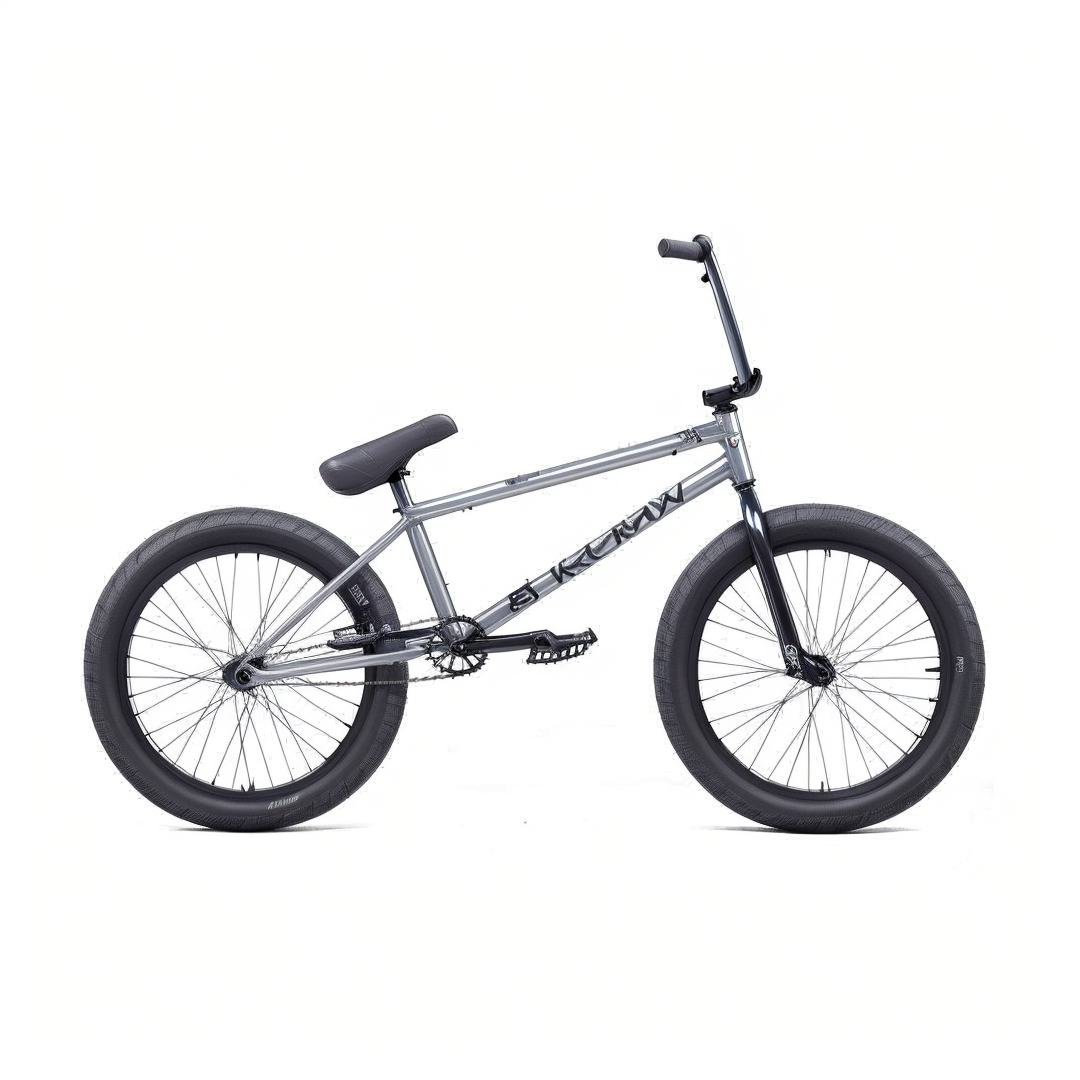
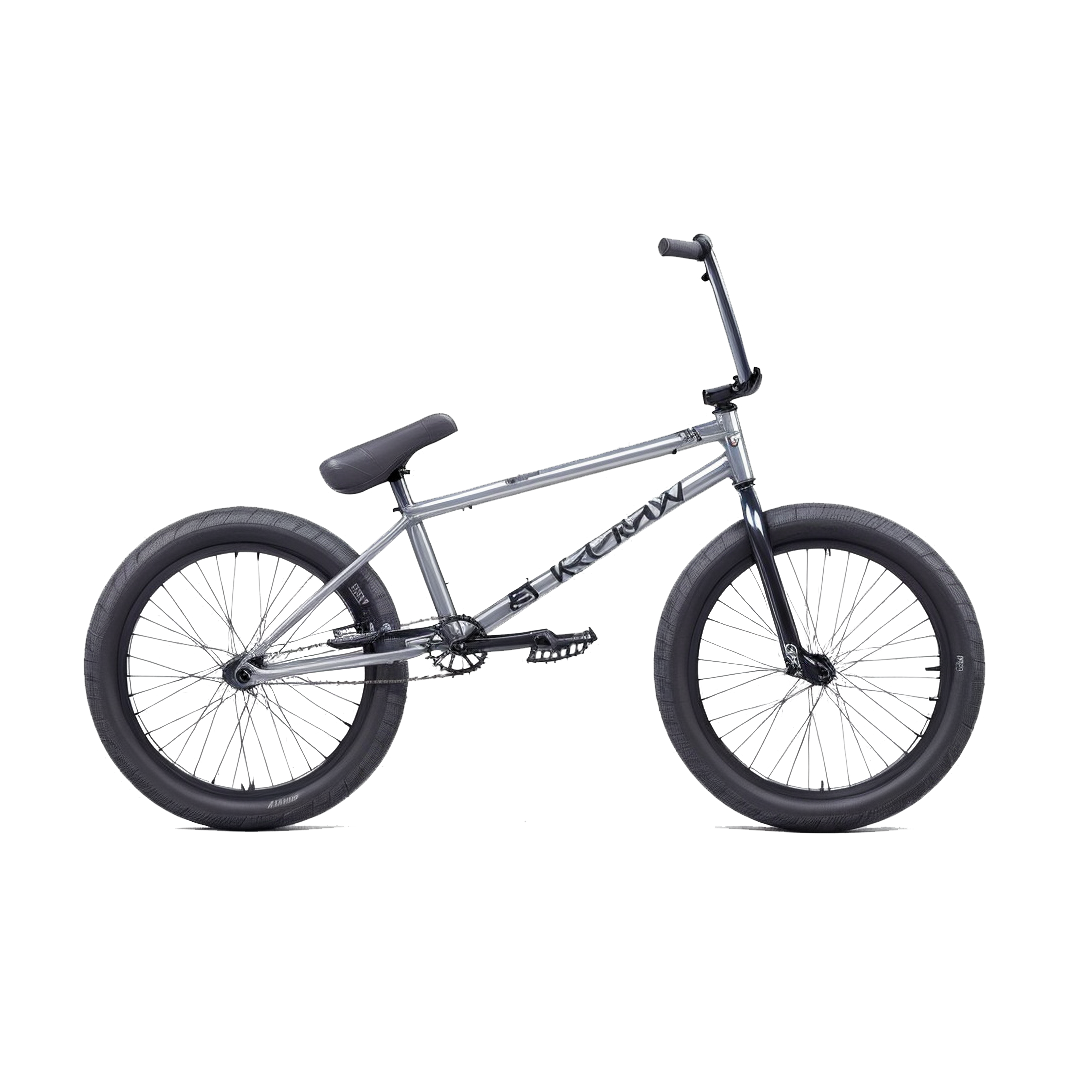
Added pagination. Fixed Product img transparency.

diff --git a/OnlineShop/wwwroot/css/Shop/ProductListingSection.css b/OnlineShop/wwwroot/css/Shop/ProductListingSection.css
@@ -1,15 +1,22 @@
+.product-main-container {
+    display: flex;
+    flex-direction: column;
+    flex-grow: 1;
+}
+
 .product-card-container {
     padding: 1em;
     display: flex;
     flex-flow: row wrap;
-    justify-content: space-evenly;
+    justify-content: center;
+    gap:20px;
 
     will-change: transform; 
     transition: 2000ms cubic-bezier(0.03, 0.98, 0.52, 0.99); 
     transform: perspective(1000px) rotateX(0deg) rotateY(0deg) scale3d(1, 1, 1);
   }
-  
-  .product-card {
+
+.product-card {
     padding: 1em;
     box-shadow: 0px 0px 46px -4px rgb(238, 238, 238);
     margin: 1em 1em 2em 1em;
@@ -19,10 +26,9 @@
     justify-content: space-between;
     display: flex;
     flex-flow: column nowrap;
-
-    will-change: transform; 
-    transition: 2000ms cubic-bezier(0.03, 0.98, 0.52, 0.99); 
-  }
+    will-change: transform;
+    transition: 2000ms cubic-bezier(0.03, 0.98, 0.52, 0.99);
+}
   
   .info {
     display: flex;
@@ -38,18 +44,21 @@
     background-color: rgb(246, 246, 246);
     border-radius: 0.8em;
   }
-  
-  .product-card-image img {
+.animated-product-item {
+    background-color: transparent;
+}
+
+.product-card-image img {
     height: 230px;
     bottom: -2em;
     width: 140%;
     object-fit: cover;
     margin-left: -3em;
-
-    will-change: transform; 
-    transition: 2000ms cubic-bezier(0.03, 0.98, 0.52, 0.99); 
+    background: none;
+    will-change: transform;
+    transition: 2000ms cubic-bezier(0.03, 0.98, 0.52, 0.99);
     transform: perspective(1000px) rotateX(0deg) rotateY(0deg) scale3d(1, 1, 1);
-  }
+}
   
   .product-card-details {
     background-color: #ffffff;

diff --git a/OnlineShop/wwwroot/css/Shop/Pagination.css b/OnlineShop/wwwroot/css/Shop/Pagination.css
@@ -1,0 +1,78 @@
+.pagination-wrapper {
+    display:flex;
+    justify-content:center;
+    text-align: center;
+    height: 50px;
+    margin-top: 40px;
+  }
+
+  .pagination {
+    display: inline-block;
+    list-style: none;
+    margin: 0;
+    padding: 0;
+    
+  }
+  .pagination li {
+    display: block;
+    float: left;
+    padding: 5px;
+  }
+
+  .pagination a{
+    background: none;
+    font-size: 16px;
+    display: block;
+    padding-left: 15px;
+    padding-right: 15px;
+    line-height: 32px;
+    
+    border-radius: 1em;
+    border: 1px solid rgb(196, 196, 196);
+  }
+  
+  .pagination a:hover {
+    background-color: black;
+    color: white;
+    border-color: black;
+  }
+  
+  .pagination a.active {
+    color: white;
+    background-color: var(--primary-color);
+    border: 1px solid  var(--primary-color);
+    border-radius: 1em;
+  }
+  .pagination a.active:hover {
+    background-color: black;
+    color: white;
+    border-color: black;
+  }
+  .pagination .extra-page-li {
+      display:none;
+  }
+
+  .pagination .prev,
+  .pagination .next,
+  .pagination .last,
+  .pagination .first {
+      padding-left: 9px;
+      padding-right: 9px;
+  }
+
+@media (min-width: 500px) {
+    .pagination .extra-page-li {
+        display: block;
+    }
+}
+
+@media (min-width: 768px) {
+    .pagination .prev,
+    .pagination .next,
+    .pagination .last,
+    .pagination .first {
+        padding-left: 15px;
+        padding-right: 15px;
+    }
+}
+    

diff --git a/OnlineShop/wwwroot/css/Shop/ProductListing.css b/OnlineShop/wwwroot/css/Shop/ProductListing.css
@@ -1,5 +1,5 @@
 .page-container {
-    min-height: 1000px;
+    min-height: 800px;
 }
 
 

diff --git a/OnlineShop.Application/ViewModels/Shop/Pager.cs b/OnlineShop.Application/ViewModels/Shop/Pager.cs
@@ -1,0 +1,47 @@
+namespace OnlineShop.Application.ViewModels.Shop
+{
+    public class Pager
+    {
+        public int TotalItems { get; set; }
+        public int CurrentPage { get; set; }
+        public int PageSize { get; set; }
+        public int TotalPages { get; set; }
+        public int StartPage { get; set; }
+        public int EndPage { get; set; }
+
+        public Pager()
+        {
+            
+        }
+
+        public Pager(int totalItems, int page, int pageSize = 8)
+        {
+            int totalPages = (int)Math.Ceiling((decimal)totalItems / (decimal)pageSize);
+            int currentPage = page;
+            int startPage = currentPage - 5;
+            int endPage = currentPage + 4;
+
+            if(startPage <= 0)
+            {
+                endPage = endPage - (startPage - 1);
+                startPage = 1;
+            }
+
+            if(endPage > totalPages)
+            {
+                endPage=totalPages;
+                if (endPage > 10)
+                {
+                    startPage = endPage - 9;
+                }
+            }
+
+            this.TotalItems = totalItems;
+            this.CurrentPage = currentPage;
+            this.PageSize = pageSize;
+            this.TotalPages = totalPages;
+            this.StartPage = startPage;
+            this.EndPage = endPage;
+        }
+    }
+}

diff --git a/OnlineShop/Controllers/ShopController.cs b/OnlineShop/Controllers/ShopController.cs
@@ -15,12 +15,20 @@
         }
 
         [HttpGet]
-        public async Task<IActionResult> Index()
+        public async Task<IActionResult> Index(int pg = 1)
         {
             IEnumerable<AllProductsViewModel> allProduct =
              await this.productService.GetAllProductsAsync();
 
-            return View(allProduct);
+            const int pageSize = 10; //1 for testing
+            if (pg < 1) pg = 1;
+            int prodCount = allProduct.Count();
+            var pager = new Pager(prodCount, pg, pageSize);
+            int prodSkip = (pg - 1) * pageSize;
+            var data = allProduct.Skip(prodSkip).Take(pager.PageSize).ToList();
+            ViewBag.Pager = pager;
+
+            return View(data);
         }
 
         //authorize as admin

diff --git a/OnlineShop.Application/Services/ProductService.cs b/OnlineShop.Application/Services/ProductService.cs
@@ -30,6 +30,7 @@
             return await this.productRepository
                .GetAllAttached()
                .To<AllProductsViewModel>()
+               .Where(p=>p.IsDeleted == false)
                .ToArrayAsync();
         }
 
